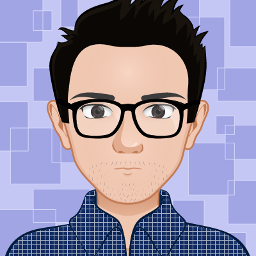
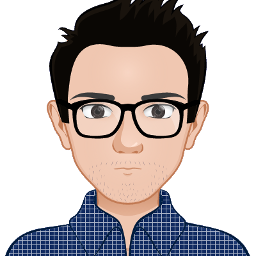
Updated about page

diff --git a/index.html b/index.html
@@ -2,7 +2,7 @@
 <html lang="en">
 <head>
     <meta charset="utf-8">
-    <title>Mladen Plavsic</title>
+    <title>Mladen Plavšić</title>
     <meta name="viewport" content="width=device-width, initial-scale=1">
 
     <link rel="stylesheet" href="//cdnjs.cloudflare.com/ajax/libs/bootswatch/3.3.1/lumen/bootstrap.min.css">
@@ -49,38 +49,32 @@
     </script>
 </head>
 <body>
-<div class="navbar navbar-default navbar-fixed-top">
-    <div class="container">
-        <div class="navbar-header">
-            <a href="/" class="navbar-brand">Mladen Plavsic</a>
-            <button class="navbar-toggle" type="button" data-toggle="collapse" data-target="#navbar-main">
-                <span class="icon-bar"></span>
-                <span class="icon-bar"></span>
-                <span class="icon-bar"></span>
-            </button>
-        </div>
-    </div>
-</div>
 
+<section id="header">
+    <img class="img-circle" src="img/mladenplavsic.png" alt="Mladen Plavšić">
+    <h1>Mladen Plavšić</h1>
+    <p class="lead">AngularJS / Full Stack developer</p>
 
-<div class="container">
-    <div class="jumbotron text-center">
-        <img class="img-circle" src="img/mladenplavsic.png" alt="Mladen Plavšić">
-        <h1>Mladen Plavšić</h1>
-        <h3>AngularJS / Full Stack developer</h3>
-    </div>
-</div>
+    <span class="badge">AngularJS</span>
+    <span class="badge">JavaScript</span>
+    <span class="badge">Symfony</span>
+    <span class="badge">PHP</span>
+    <span class="badge">Node.js</span>
+    <span class="badge">Bootstrap</span>
+    <span class="badge">LESS</span>
+    <span class="badge">HTML/CSS</span>
+</section>
 
 <footer>
-    <div class="container">
+    <div class="container text-center">
         <a class="btn btn-default" href="https://github.com/mladenplavsic" target="_blank">
             <i class="fa fa-github"></i> GitHub
         </a>
-        <a class="btn btn-default" href="https://twitter.com/MladenPlavsic" target="_blank">
-            <i class="fa fa-twitter"></i> Twitter
-        </a>
         <a class="btn btn-default" href="http://www.linkedin.com/in/mladenplavsic" target="_blank">
             <i class="fa fa-linkedin"></i> LinkedIn
+        </a>
+        <a class="btn btn-default" href="https://twitter.com/MladenPlavsic" target="_blank">
+            <i class="fa fa-twitter"></i> Twitter
         </a>
     </div>
 </footer>

diff --git a/css/main.css b/css/main.css
@@ -1,25 +1,23 @@
-/* Sticky footer styles
--------------------------------------------------- */
-html {
-    position: relative;
-    min-height: 100%;
-}
-body {
-    /* Margin bottom by footer height */
-    margin-bottom: 60px;
-}
+section,
 footer {
-    position: absolute;
-    bottom: 0;
-    width: 100%;
-    /* Set the fixed height of the footer here */
-    height: 60px;
+    padding: 30px 50px;
 }
 
+.navbar + * {
+    margin-top: 54px;
+}
 
-/* Custom page CSS
--------------------------------------------------- */
+#header {
+    text-align: center;
+    background-color: #00bff3;
+}
 
-body > .container {
-    padding: 80px 15px 0;
+#header img {
+    background: rgba(0,0,0,0.1);
+}
+
+#header h1 {
+    color: #fff;
+    font-size: 64px;
+    font-weight: bold;
 }
